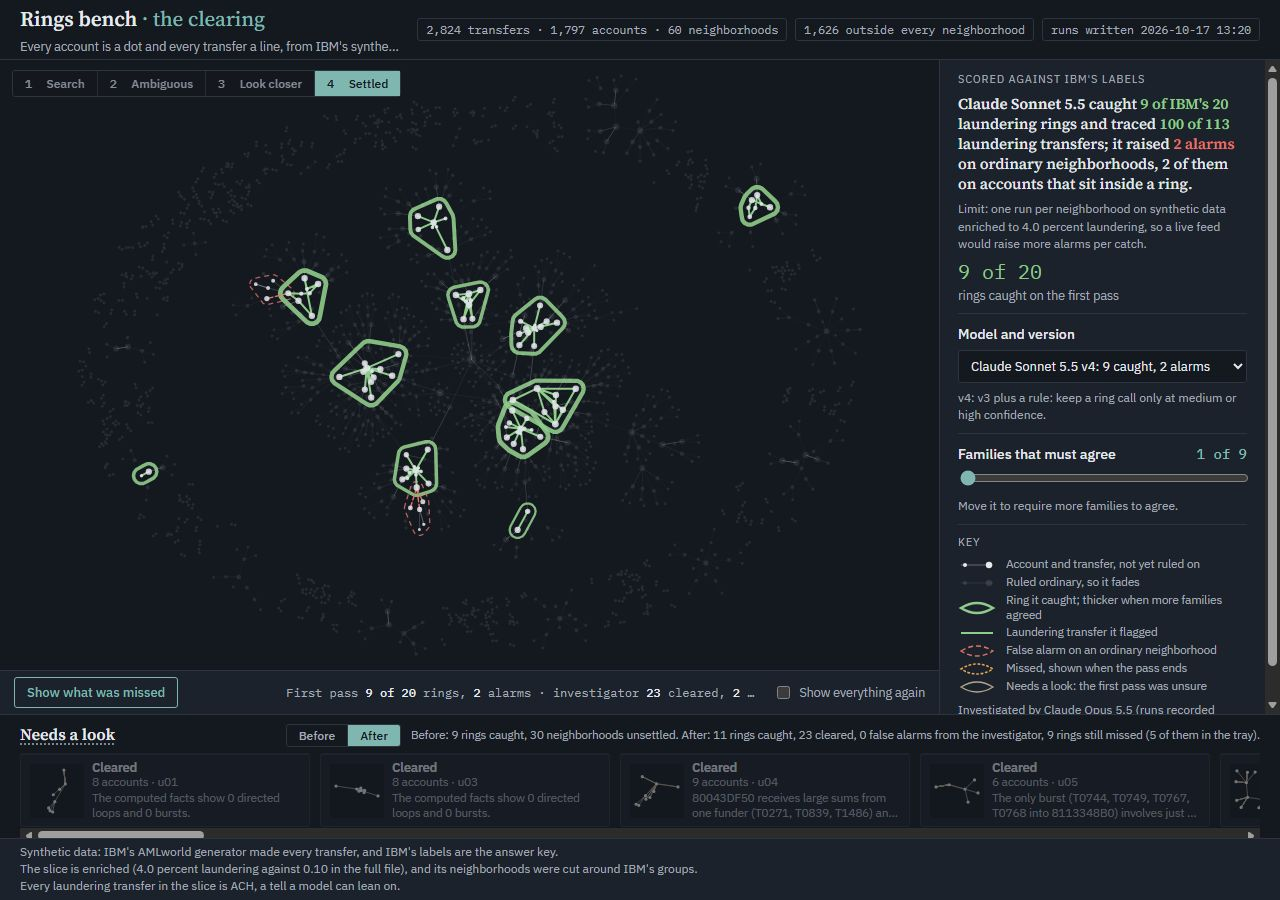
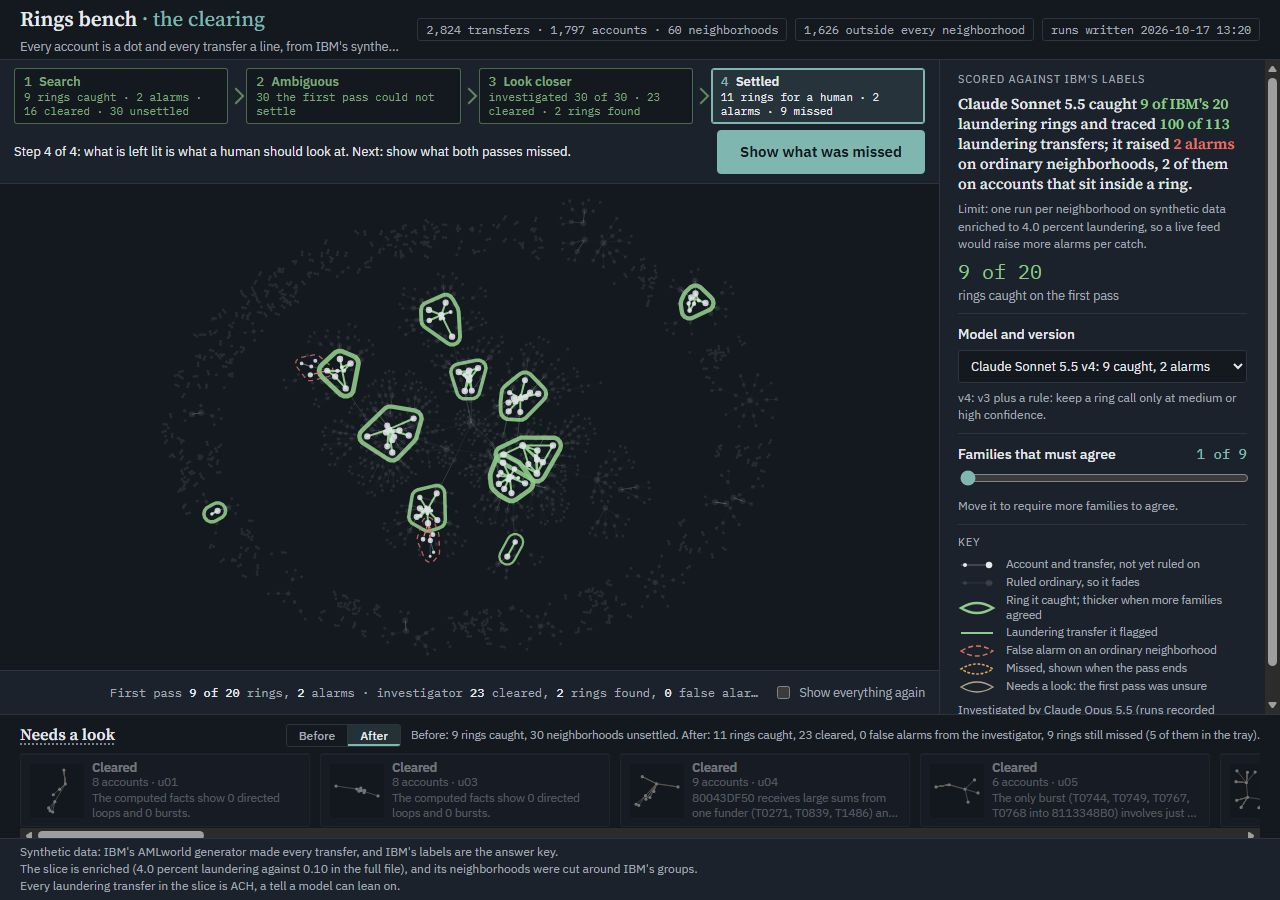
Clearing page opens at step 1 with a four-step funnel, captions and one primary button

diff --git a/rings_bench/ui/variants/clearing2d/clearing.js b/rings_bench/ui/variants/clearing2d/clearing.js
@@ -319,12 +319,13 @@ function setT(t, fromPlay) {
 function pulseLoop() { pulseRaf = 0; if ((ST.stage !== 2 && !ST.before) || reduced()) return; draw(); pulseRaf = requestAnimationFrame(pulseLoop); }
 function setStage(n) {
   ST.stage = n; timeEl.style.visibility = n >= 2 ? 'hidden' : '';
-  document.querySelectorAll('#stages li').forEach((li, i) => { li.classList.toggle('on', i + 1 === n); li.classList.toggle('done', i + 1 < n); });
+  const box = Math.max(1, n); document.querySelectorAll('#funnel .fbox').forEach((li, i) => { li.classList.toggle('on', i + 1 === box); li.classList.toggle('done', i + 1 < box); li.setAttribute('aria-current', i + 1 === box ? 'step' : 'false'); });
   if (n === 2 && !pulseRaf) pulseRaf = requestAnimationFrame(pulseLoop);
   renderButton(); renderClock(); draw();
 }
 function renderButton() {
   const n = ST.stage; playBtn.disabled = false;
+  renderFunnel();
   if (n === 0) playBtn.textContent = 'Start the search';
   else if (n === 1) playBtn.textContent = ST.playing ? 'Skip to the end of the search' : 'Continue the search';
   else if (n === 2) { playBtn.textContent = 'Look closer at all ' + CARDS.size; playBtn.disabled = !trayApplies(ST.sel) || !CARDS.size; }
@@ -361,7 +362,7 @@ function jumpTo(n) {
   ST.missedAt = n >= 4 ? past : null; CARDS.forEach((el, k) => cardState(el, k)); renderTrayHead();
   setStage(n >= 4 ? 4 : 3); if (n === 3) { ST.stage = 3; renderButton(); } renderTrayHead();
 }
-document.querySelectorAll('#stages li').forEach((li, i) => { li.addEventListener('click', () => jumpTo(i + 1)); li.addEventListener('keydown', e => { if (e.key === 'Enter' || e.key === ' ') { e.preventDefault(); jumpTo(i + 1); } }); });
+document.querySelectorAll('#funnel .fbox').forEach((li, i) => { li.addEventListener('click', () => jumpTo(i + 1)); li.addEventListener('keydown', e => { if (e.key === 'Enter' || e.key === ' ') { e.preventDefault(); jumpTo(i + 1); } }); });
 timeEl.addEventListener('input', () => { stopPlay(); if (ST.stage !== 1) { resetLater(); setStage(1); } setT(+timeEl.value / 1000 * ST.END); if (ST.t >= ST.END) setStage(2); });
 $('#all').addEventListener('change', e => { ST.showAll = e.target.checked; draw(); });
 function renderClock() {
@@ -376,6 +377,32 @@ function renderClock() {
   else if (ST.stage === 3) html = 'Investigated <b>' + inv + ' of ' + lookN + '</b>';
   else html = closingLine();
   $('#clock').innerHTML = html;
+  renderFunnel();
+}
+/* the funnel: each step's live count, from the data; blank until the step is reached */
+function renderFunnel() {
+  const T = TL, s = ST.sel; if (!T || !s) return; const now = performance.now(); const tray = trayApplies(s);
+  const box = Math.max(1, ST.stage);
+  let caught = 0, alarms = 0, cleared = 0, unsettled = 0;
+  T.read.forEach((r, k) => { if (ST.t < r) return; const st = T.status[k]; if (st === 'caught') caught++; else if (st === 'alarm') alarms++; else if (st === 'clear') cleared++; else if (st === 'look') unsettled++; });
+  const lookN = T.status.filter(x => x === 'look').length;
+  $('#fc1').textContent = ST.stage === 0 || (ST.stage === 1 && ST.t < HOLD + FADE) ? UNITS.length + ' to read' : caught + ' rings caught · ' + alarms + (alarms === 1 ? ' alarm' : ' alarms') + ' · ' + cleared + ' cleared' + (tray ? ' · ' + unsettled + ' unsettled' : '');
+  $('#fc2').textContent = box >= 2 ? (tray ? lookN + ' the first pass could not settle' : 'no tray for this model') : '';
+  let inv = 0, icl = 0, ifound = 0; Object.keys(INV).forEach(id => { if (!landed(id, now)) return; inv++; const r = invRes(id); if (!r) return; if (truthy(r.ring_found)) ifound++; else if (r.verdict !== 'ring' && (UNITS.find(u => u.id === id) || {}).expected !== 'ring') icl++; });
+  $('#fc3').textContent = box >= 3 && tray ? 'investigated ' + inv + ' of ' + lookN + ' · ' + icl + ' cleared · ' + ifound + (ifound === 1 ? ' ring' : ' rings') + ' found' : '';
+  const human = s.k + (tray && INVD ? TRAY.filter(x => INVD.results && INVD.results[x.unit] && truthy(INVD.results[x.unit].ring_found)).length : 0);
+  $('#fc4').textContent = box >= 4 ? human + ' rings for a human · ' + s.f + (s.f === 1 ? ' alarm' : ' alarms') + ' · ' + (NR - human) + ' missed' : '';
+  $('#caption').textContent = captionText(lookN, human);
+}
+function captionText(lookN, human) {
+  const s = ST.sel; const tray = trayApplies(s);
+  if (ST.stage === 0) return UNITS.length + ' neighborhoods, ' + num(TR.length) + ' transfers. Step 1 of 4: the first pass reads every neighborhood.';
+  if (ST.stage === 1) return 'Step 1 of 4: ' + s.name + ' ' + s.ver + ' reads each neighborhood. Ordinary ones fade, rings it catches turn green, the ones it is unsure about stay lit.';
+  if (ST.before) return 'Before the closer look: ' + lookN + ' neighborhoods the first pass could not settle. Switch to After to see them settled.';
+  if (ST.stage === 2) return tray ? 'Step 2 of 4: these ' + lookN + ' pulsing neighborhoods are the ones the first pass was unsure about. Next: a stronger model looks closer at each one.' : 'Step 2 of 4: the closer look is recorded for Claude Sonnet 5.5 v4 only; pick it in the side panel to continue.';
+  if (ST.stage === 3) return 'Step 3 of 4: ' + INV_MODEL + ' looks closer at each unsure neighborhood. Cleared ones fade; rings close in green.';
+  if (ST.missedAt == null) return 'Step 4 of 4: what is left lit is what a human should look at. Next: show what both passes missed.';
+  return 'Amber dotted: the ' + (NR - human) + ' rings both passes missed. Next: start over from the beginning.';
 }
 function closingLine() {
   const s = ST.sel; let out = 'First pass <b>' + s.k + ' of ' + NR + '</b> rings, <b>' + s.f + '</b> ' + (s.f === 1 ? 'alarm' : 'alarms');

diff --git a/rings_bench/ui/variants/clearing2d/clearing.css b/rings_bench/ui/variants/clearing2d/clearing.css
@@ -4,8 +4,8 @@
   --serif: "Source Serif 4", Georgia, "Times New Roman", serif;
   --sans: "IBM Plex Sans", "Segoe UI", system-ui, -apple-system, Arial, sans-serif;
   --mono: "IBM Plex Mono", Consolas, "Cascadia Mono", "Courier New", monospace;
-  --top: 60px; --scrubH: 44px; --rosterH: 124px; --footH: 62px;
-  --stageH: max(360px, calc(100vh - var(--top) - var(--scrubH) - var(--rosterH) - var(--footH)));
+  --top: 60px; --flowH: 124px; --scrubH: 44px; --rosterH: 124px; --footH: 62px;
+  --stageH: max(340px, calc(100vh - var(--top) - var(--flowH) - var(--scrubH) - var(--rosterH) - var(--footH)));
   color-scheme: dark;
 }
 * { box-sizing: border-box; }
@@ -43,7 +43,7 @@ h1, h2, h3 { font-family: var(--serif); font-weight: 600; margin: 0; }
 .btn:focus-visible, select:focus-visible, input:focus-visible { outline: 2px solid var(--accent); outline-offset: 2px; }
 input[type=range], input[type=checkbox] { accent-color: var(--accent); }
 
-.rail { background: var(--surface); padding: 12px 18px; display: flex; flex-direction: column; gap: 9px; height: calc(var(--stageH) + var(--scrubH)); overflow-y: auto; }
+.rail { background: var(--surface); padding: 12px 18px; display: flex; flex-direction: column; gap: 9px; height: calc(var(--stageH) + var(--scrubH) + var(--flowH)); overflow-y: auto; }
 .result h2 { font-size: 15px; line-height: 1.34; font-weight: 500; }
 .result h2 b { font-weight: 600; color: var(--ok); }
 .result h2 em { font-style: normal; font-weight: 600; }
@@ -74,7 +74,7 @@ select { width: 100%; font: 13px var(--sans); color: var(--ink); background: var
 .rhead h2 { font-size: 16px; }
 .rhead .mono { color: var(--ok); font-size: 13px; }
 .strip { display: flex; gap: 10px; overflow-x: auto; overflow-y: hidden; padding-bottom: 4px; height: 90px; }
-.strip:empty::before { content: "Each ring the model catches drops a copy here; the ring itself stays lit in the graph above."; color: var(--muted); font-size: 12px; align-self: center; }
+.strip:empty::before { content: "Neighborhoods the first pass is unsure about land here as it reads them."; color: var(--muted); font-size: 12px; align-self: center; }
 .card { flex: none; display: flex; gap: 8px; align-items: center; width: 290px; height: 74px; background: var(--surface); border: 1px solid var(--rule); border-top: 2px solid var(--ok); border-radius: 3px; padding: 5px 9px; font-size: 11.5px; transition: opacity 200ms ease-out, transform 200ms ease-out; overflow: hidden; cursor: default; }
 .card.pending { opacity: 0; transform: translateY(-10px); }
 .card.hot { border-color: var(--ok); }
@@ -140,3 +140,25 @@ select { width: 100%; font: 13px var(--sans); color: var(--ink); background: var
 .ba .tally { font-size: 11.5px; color: var(--muted); white-space: nowrap; overflow: hidden; text-overflow: ellipsis; min-width: 0; }
 .rhead h2, .rhead #rcount { flex: none; white-space: nowrap; }
 .scrub .btn { flex: none; }
+
+/* the action flow: a four-step funnel, a caption that says what is happening, one primary button */
+.flow { height: var(--flowH); padding: 8px 14px; border-bottom: 1px solid var(--rule); background: var(--surface); display: flex; flex-direction: column; gap: 6px; }
+.funnel { list-style: none; margin: 0; padding: 0; display: grid; grid-template-columns: repeat(4, minmax(0, 1fr)); gap: 18px; }
+.fbox { position: relative; border: 1px solid var(--rule); border-radius: 3px; padding: 4px 9px; min-height: 46px; background: var(--ground); color: var(--muted); cursor: pointer; opacity: .6; }
+.fbox:not(:last-child)::after { content: ""; position: absolute; right: -15px; top: 50%; width: 10px; height: 10px; border-top: 2px solid var(--rule); border-right: 2px solid var(--rule); transform: translateY(-50%) rotate(45deg); }
+.fbox .ft { display: block; font: 600 13px var(--sans); color: inherit; }
+.fbox .ft b { font-weight: 500; margin-right: 4px; }
+.fbox .fc { display: block; font: 11px/1.3 var(--mono); color: inherit; }
+.fbox.done { opacity: 1; border-color: rgba(143,203,138,.45); color: #7FA77B; }
+.fbox.done:not(:last-child)::after { border-color: rgba(143,203,138,.6); }
+.fbox.on { opacity: 1; border-color: var(--accent); background: rgba(127,183,176,.12); color: var(--ink); box-shadow: inset 0 0 0 1px var(--accent); }
+.fbox.on .ft b { color: var(--accent); }
+.fbox:focus-visible { outline: 2px solid var(--accent); outline-offset: 2px; }
+.act { display: flex; align-items: center; gap: 14px; min-height: 44px; }
+.cap { margin: 0; flex: 1; min-width: 0; font-size: 13px; color: var(--ink); line-height: 1.35; }
+.btn.cta { flex: none; height: 44px; padding: 0 22px; font: 600 15px var(--sans); color: var(--ground); background: var(--accent); border: 1px solid var(--accent); border-radius: 4px; animation: cta-once 900ms ease-out 400ms 1; }
+.btn.cta:hover { filter: brightness(1.08); }
+.btn.cta[disabled] { opacity: .6; }
+@keyframes cta-once { 0% { transform: scale(1); } 40% { transform: scale(1.06); } 100% { transform: scale(1); } }
+@media (prefers-reduced-motion: reduce) { .btn.cta { animation: none; } }
+.ba .seg button.on { background: rgba(127,183,176,.16); color: var(--ink); box-shadow: inset 0 -2px 0 var(--accent); }

diff --git a/rings_bench/ui/variants/clearing2d/index.html b/rings_bench/ui/variants/clearing2d/index.html
@@ -22,15 +22,20 @@
 
 <div class="wall">
   <section class="stagecol">
-    <div class="stage" id="stage">
-      <ol class="stages" id="stages" aria-label="Stages">
-        <li tabindex="0">Search</li><li tabindex="0">Ambiguous</li><li tabindex="0">Look closer</li><li tabindex="0">Settled</li>
+    <div class="flow">
+      <ol class="funnel" id="funnel" aria-label="The four steps">
+        <li class="fbox" tabindex="0"><span class="ft"><b class="mono">1</b> Search</span><span class="fc" id="fc1"></span></li>
+        <li class="fbox" tabindex="0"><span class="ft"><b class="mono">2</b> Ambiguous</span><span class="fc" id="fc2"></span></li>
+        <li class="fbox" tabindex="0"><span class="ft"><b class="mono">3</b> Look closer</span><span class="fc" id="fc3"></span></li>
+        <li class="fbox" tabindex="0"><span class="ft"><b class="mono">4</b> Settled</span><span class="fc" id="fc4"></span></li>
       </ol>
+      <div class="act"><p class="cap" id="caption" aria-live="polite"></p><button class="btn cta" id="play" type="button">Start the search</button></div>
+    </div>
+    <div class="stage" id="stage">
       <canvas id="cv" role="img" aria-label="Network of accounts and transfers; neighborhoods the model rules ordinary fade, and its catches, alarms and misses stay lit"></canvas>
       <div class="hovercard" id="hover" hidden></div>
     </div>
     <div class="scrub">
-      <button class="btn primary" id="play" type="button">Start the search</button>
       <input type="range" id="time" min="0" max="1000" step="1" value="0" aria-label="Scrub through the pass">
       <div class="clock mono" id="clock" aria-live="polite"></div>
       <label class="tog"><input type="checkbox" id="all"> Show everything again</label>

diff --git a/rings_bench/ui/variants/clearing2d/README.md b/rings_bench/ui/variants/clearing2d/README.md
@@ -6,6 +6,12 @@ To open it, double-click `index.html`. It reads `../../../data/` (slice, units, 
 
 The whole slice starts lit, the real graph, and the first pass reads the 60 neighborhoods one by one: each one it rules ordinary fades, and each ring it catches traces green in place. The neighborhoods it could not settle stay lit and drop into a "Needs a look" tray, and a stronger model looks closer at them one card at a time, so each one either fades as cleared or closes green as a ring. What remains is what is worth a look: the rings caught, the two alarms, and, on request, the rings both passes missed in amber dotted.
 
+## The action flow
+
+A plain load opens at the beginning: step 1, before the search, with the graph fully lit and the tray empty. Above the graph is a four-box funnel (Search, Ambiguous, Look closer, Settled), joined by arrows. Each box carries a live count computed from the data and is blank until that step is reached. The current box is lit, finished boxes are dim green and future boxes are grey; clicking a box jumps to the end of that step. Under the funnel, one caption says what is happening now and what the button does next. The one primary button (44 px, accent fill, one pulse on load) always names the next action: Start the search, Look closer at all 30, Show what was missed, Start over. The model picker and the families dial stay in the side rail as secondary controls.
+
+Funnel counts for Claude Sonnet 5.5 v4: Search "9 rings caught · 2 alarms · 16 cleared · 30 unsettled" (cleared means ruled ordinary outside the tray); Ambiguous "30 the first pass could not settle"; Look closer "investigated 30 of 30 · 23 cleared · 2 rings found"; Settled "11 rings for a human · 2 alarms · 9 missed".
+
 ## Four stages (a strip at the top of the graph; the button always names the next stage)
 
 | Stage | Button that starts it | What it shows | Timing |
